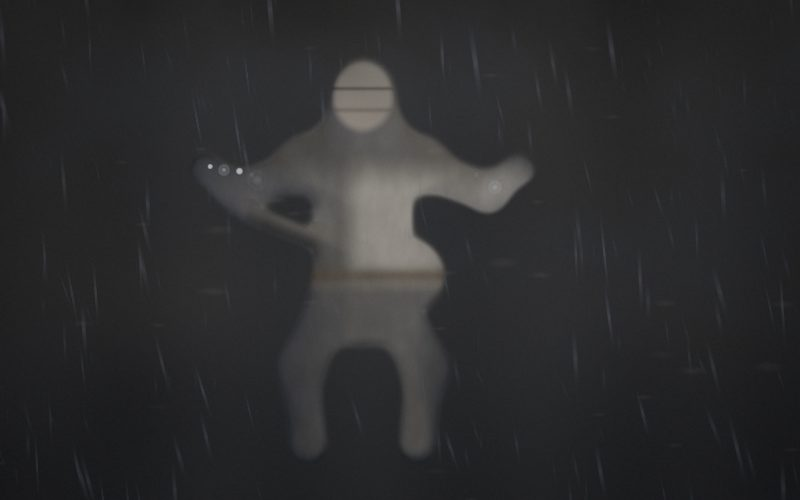
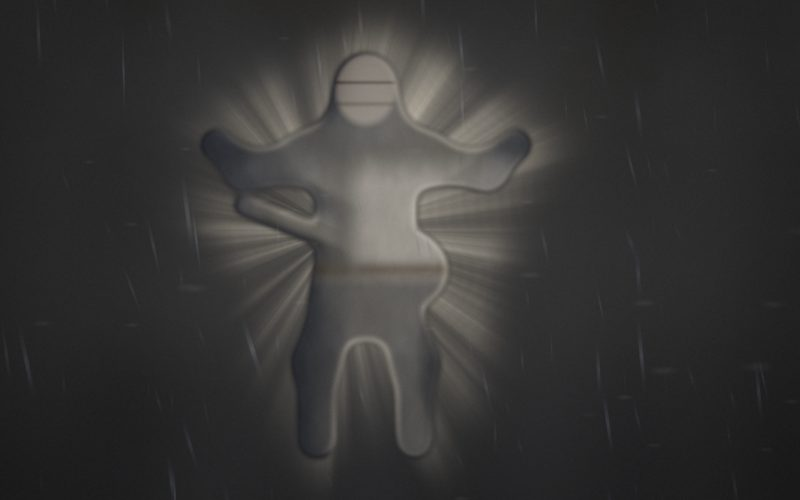
声: 光を後光として放ち、晴れが届くようにする (#113)
「音に応じて光を発する・雨が止む、があまり感じられない。特に光はもっと
神々しく」への対応。雨の表現はそのまま。

天候の弧が遅すぎた:
- shine の充填 12秒 → 6秒、減衰 35秒 → 30秒。12秒では実際に歌っても
  晴れに届かなかった。
- clear の既定 0.75 → 0.92、写像も smoothstep(0.08,0.75) → (0.05,0.55)。
  歌えば雨がはっきり上がる。

光を後光にした(新スライダー「後光」):
- 身体の重心から光芒が放射する。重心は MediaPipe のマスクから求め、
  cover-fit と鏡像を逆変換して画面座標に直す(det.cx/cy は合成モード専用で、
  実カメラでは 0.5 固定だった)。
- 光芒は**光の場を直接**マーチして描く。最初はブルームを引き伸ばしていたが、
  それだと「声の光」スライダーを下げた瞬間に光芒ごと消えた — 光芒が自分の
  ものになっていなかった。
- 縞は重心まわりの一つの角度で切る。局所勾配の角度で切った版は輪郭に沿った
  水紋のようになり、後光に見えなかった。
- 輪郭が縁から燃える(rim blaze)。人物が居ないときは出さない。
- 一度やり過ぎて人物が完全に白飛びしたので、身体内部の発光は抑え、光芒は
  マスクの広域ぼかしで身体まわりに限定した(初版は画面の四隅まで洗っていた)。

検証: static 0 error(gtag除く)/ order 0 error / runtime 11/11 pass
(--motion --longrun)。実機は未検証。

Claude-Session: https://claude.ai/code/session_0193D14d1SybLDp5E6kaLiCx

Changed region(s): [[0.25, 0.03, 0.7188, 0.96], [0.2188, 0.39, 0.4062, 0.72], [0.25, 0.33, 0.3125, 0.36]]

diff --git a/opus5_koe.html b/opus5_koe.html
@@ -27,10 +27,13 @@
        粒が当たった瞬間だけ淡く光り、濡れは重力で流れ落ちて胴へ広がる。
     4. 濡れは実写の上に — 雨に打たれた服と髪は暗く沈み、色が抜ける(肩から)。
        水滴の反射で光らせない。
-    5. 声の光は胸から昇る — 光は空から降らず、歌っている体の奥で湧き、
-       上へ昇って肩と頭に満ちる。**実写の明るさが光を運ぶ**(顔や皺の明るい所が
-       灯り、影は影のまま)ので、体の実際の形に沿って灯る。ブルームで外へ
-       僅かに漏れる=光の庭。一様には光らせない(§A1)。
+    5. 声の光は胸から昇り、後光になる — 光は空から降らず、歌っている体の奥で
+       湧き、上へ昇って肩と頭に満ちる。**実写の明るさが光を運ぶ**(顔や皺の
+       明るい所が灯り、影は影のまま)ので、体の実際の形に沿って灯る。
+       輪郭は縁が燃えるように光り、身体の**重心から光芒が放射する**
+       (光の場を中心へ向かってマーチして外へ塗る。中心はマスクの重心から
+       求め、cover-fit と鏡像を逆変換して画面座標に直す)。=光の庭。
+       一様には光らせない(§A1)。
     6. 確かな誇り — 濡れには下限があり、乾ききらない。届いたものは残る。
        ただし上限で飽和するので、いつまでも溜まり続けはしない。
 
@@ -76,6 +79,7 @@
     雨          歌っていないときに降る雨の量
     晴れ        光が満ちたときに、どれだけ晴れるか
     声の光      声が体に灯す光の強さ
+    後光        体から放たれる光芒の強さ
     真綿        風に漂う綿毛の量
     乾きにくさ  濡れた跡がどれだけ長く残るか
     風          風の強さ(雨の傾きと綿毛の流れ)
@@ -330,8 +334,9 @@
 
         const DEFAULTS = {
           rain: 0.60,
-          clear: 0.75,
-          glowAmt: 0.60,
+          clear: 0.92,
+          glowAmt: 0.62,
+          rays: 0.62,
           floss: 0.55,
           soak: 0.50,
           wind: 0.45,
@@ -352,6 +357,7 @@
           ["rain", "雨", "歌っていないときに降る雨の量", 0, 1, 0.01],
           ["clear", "晴れ", "光が満ちたときに、どれだけ晴れるか", 0, 1, 0.01],
           ["glowAmt", "声の光", "声が体に灯す光の強さ", 0, 1, 0.01],
+          ["rays", "後光", "体から放たれる光芒の強さ", 0, 1, 0.01],
           ["floss", "真綿", "風に漂う綿毛の量", 0, 1, 0.01],
           ["soak", "乾きにくさ", "濡れた跡がどれだけ長く残るか", 0, 1, 0.01],
           ["wind", "風", "風の強さ(雨の傾きと綿毛の流れ)", 0, 1, 0.01],
@@ -367,8 +373,8 @@
           <p>
             歌っていないあいだは、雨が降っています。夜の雨が肩を濡らし、
             濡れた跡は乾ききりません。歌うと、声は体の奥で光になります —
-            <strong>歌い続けるほど光は満ちてゆき、やがて雨が上がって晴れて
-            いきます</strong>。黙れば、また静かな雨が戻ります。真綿のような
+            <strong>歌い続けるほど光は満ちてゆき、輪郭が燃えて後光が
+            差し、やがて雨が上がって晴れていきます</strong>。黙れば、また静かな雨が戻ります。真綿のような
             白い綿毛が風に流れ、雲が暗がりをゆっくり過ぎていきます。
             天気と同じで、ひと声では変わりません。
             映像も音声も、すべて端末内で処理されます。
@@ -1002,7 +1008,7 @@
             glow += uDt * 1.6 * max(below - glow, 0.0) * bodyBelow *
               smoothstep(0.04, 0.30, soft);
             glow -= uDt * glow * 0.30;
-            glow = clamp(glow, 0.0, 1.0);
+            glow = clamp(glow, 0.0, 1.5);
 
             vec2 run = vec2(0.0, -1.0) * wet;
             fragColor = vec4(wet, clamp(floor0, 0.0, 1.0), glow, 1.0);
@@ -1337,7 +1343,7 @@
             vec3 lampCol = vec3(1.00, 0.93, 0.80);
             float g = glow * smoothstep(0.10, 0.70, soft) * carry;
             // rgb above alpha: this is what feeds the bloom
-            fragColor = vec4(lampCol * g * 0.85, clamp(g * 0.24, 0.0, 1.0));
+            fragColor = vec4(lampCol * g * 1.20, clamp(g * 0.26, 0.0, 1.0));
           }
         `;
 
@@ -1352,7 +1358,7 @@
             // only the genuinely emissive parts (stamens, the hottest petal
             // flanks — the ones written above 1.0) are allowed to glow. A low
             // threshold makes every petal halo and the field reads as sparkles.
-            fragColor = vec4(c * smoothstep(0.72, 1.45, l), 1.0);
+            fragColor = vec4(c * smoothstep(0.55, 1.30, l), 1.0);
           }
         `;
 
@@ -1378,7 +1384,10 @@
           uniform float uTime;
           uniform float uExposure;
           uniform float uFilmGrain;
+          uniform sampler2D uWide;
+          uniform vec2 uCenter;
           uniform float uGlowAmt;
+          uniform float uRays;
           uniform float uShine;
           uniform float uPresent;
           uniform vec4 uAudA;   // rms, centroid, steadiness, onset
@@ -1436,18 +1445,66 @@
             float glow = wt.b * uGlowAmt;
             vec3 lampCol = vec3(1.00, 0.94, 0.82);
             float lamp = glow * (0.40 + 0.90 * pow(clamp(rl, 0.0, 1.0), 0.75));
-            col += lampCol * lamp * 0.34 * bodyIn;
+            col += lampCol * lamp * 0.26 * bodyIn;
 
             // ---- the floss layer (premultiplied over)
             col = col * (1.0 - clamp(L.a, 0.0, 1.0)) + L.rgb;
 
             // ---- bloom: the lit body and the rain flares reach it, so the
             // halo around the figure IS the voice — 光の庭
-            vec3 b = texture(uB1, vUv).rgb * 0.42 + texture(uB2, vUv).rgb * 0.62;
-            col += b * 0.85;
-            // the room itself catches a breath of the body's light
+            vec3 b = texture(uB1, vUv).rgb * 0.50 + texture(uB2, vUv).rgb * 0.85;
+            col += b * 0.95;
+
             float shine = clamp(uShine, 0.0, 1.0);
-            col += vec3(0.055, 0.050, 0.040) * shine * (1.0 - smoothstep(0.18, 0.80, soft));
+
+            // ---- 後光. Light shafts streaming out of the body.
+            // No centroid is needed: the gradient of the WIDE mask halo points
+            // at the body from every direction around it, so marching toward it
+            // and smearing the bloom back outward gives rays that leave the
+            // real silhouette — from the shoulders, the head, the arms.
+            float outside = 1.0 - smoothstep(0.10, 0.55, soft);
+            // confined to the halo around the body. Unbounded, the shafts
+            // reached the corners and washed the whole night out.
+            float near = smoothstep(0.010, 0.22, texture(uWide, vUv).r);
+            float rayAmt = uRays * smoothstep(0.04, 0.55, shine) * outside * near *
+              smoothstep(0.15, 0.55, uPresent);
+            if (rayAmt > 0.002) {
+              // Radiating from the body's CENTROID. Striping by the local mask
+              // gradient instead made the shafts follow the contour and read as
+              // watery ripples — a halo has to be indexed by one global angle
+              // or it is not a halo.
+              vec2 d = (vUv - uCenter) * ar;
+              vec2 toBody = -normalize(d + vec2(1e-6));
+              float ang = atan(d.y, d.x);
+              // sharpened: a soft fbm reads as a blur, a peaked one as shafts
+              float sn = fbm(vec2(ang * 6.0, uTime * 0.04));
+              float stri = 0.14 + 2.20 * pow(clamp(sn, 0.0, 1.0), 2.2);
+              // Marched over the LIGHT FIELD itself, not over the bloom
+              // texture: sourcing the shafts from the bloom made them vanish
+              // whenever the bloom or 声の光 was tuned down, so they were never
+              // their own thing. This reads the glow the body actually holds.
+              float shaftE = 0.0;
+              float wsum = 0.0;
+              for (int i = 1; i <= 16; i++) {
+                float t = float(i) / 16.0;
+                vec2 sp = clamp(vUv + toBody * t * 0.24, 0.0, 1.0);
+                float w = 1.0 - t * 0.85;
+                shaftE += texture(uWet, sp).b *
+                  smoothstep(0.25, 0.75, texture(uSoft, sp).r) * w;
+                wsum += w;
+              }
+              shaftE /= max(wsum, 1e-4);
+              col += vec3(1.05, 0.96, 0.80) * shaftE * rayAmt * stri * 2.2;
+            }
+
+            // ---- the rim of the body blazes: the edge is where a lit body
+            // most obviously stops being lit FROM outside and starts being lit
+            // from within
+            float rimBand = smoothstep(0.20, 0.55, soft) * (1.0 - smoothstep(0.55, 0.92, soft));
+            col += vec3(1.00, 0.92, 0.76) * rimBand * wt.b * uGlowAmt * 0.95;
+
+            // the room itself lifts as the weather clears
+            col += vec3(0.075, 0.068, 0.055) * shine * (1.0 - smoothstep(0.18, 0.80, soft));
 
             // ---- 確かな誇り。「今 私の胸のうちに息衝くのは 確かな誇り」
             // The floor of the wetness — the part that will not dry — carries a
@@ -1588,9 +1645,9 @@
           ]),
           bright: getLocations(programs.bright, ["uSrc"]),
           composite: getLocations(programs.composite, [
-            "uScene", "uMask", "uSoft", "uWet", "uLayer", "uB1", "uB2",
+            "uScene", "uMask", "uSoft", "uWide", "uWet", "uLayer", "uB1", "uB2",
             "uResolution", "uAspect", "uTime", "uExposure",
-            "uGlowAmt", "uShine",
+            "uCenter", "uGlowAmt", "uRays", "uShine",
             "uFilmGrain", "uPresent", "uAudA", "uAudB", "uDebug",
           ]),
         };
@@ -1698,6 +1755,8 @@
             maskB: createTarget(fieldW, fieldH, true),
             softT: createTarget(fieldW, fieldH, true),
             softTmp: createTarget(fieldW, fieldH, true),
+            wideT: createTarget(fieldW, fieldH, true),
+            wideTmp: createTarget(fieldW, fieldH, true),
             wetA: createTarget(fieldW, fieldH, true),
             wetB: createTarget(fieldW, fieldH, true),
             layer: createTarget(paintW, paintH, true),
@@ -1719,6 +1778,8 @@
           clearTarget(targets.maskB, 0, 0, 0.5, 0.5);
           clearTarget(targets.softT, 0, 0, 0.5, 0.5);
           clearTarget(targets.softTmp, 0, 0, 0.5, 0.5);
+          clearTarget(targets.wideT, 0, 0, 0.5, 0.5);
+          clearTarget(targets.wideTmp, 0, 0, 0.5, 0.5);
           clearTarget(targets.wetA, 0, 0, 0, 1);
           clearTarget(targets.wetB, 0, 0, 0, 1);
           clearTarget(targets.layer, 0, 0, 0, 0);
@@ -1817,6 +1878,7 @@
         ------------------------------------------------------------------ */
 
         const det = {
+          mx: 0.5, my: 0.5, tmx: 0.5, tmy: 0.5,   // 身体の重心(後光の中心)
           cx: 0.5, cy: 0, present: 0,
           tcx: 0.5, tcy: 0, tpresent: 0,
           swing: 0,
@@ -1925,10 +1987,24 @@
           const f = mask.getAsFloat32Array();
           if (segU8.length !== w * h) segU8 = new Uint8Array(w * h);
           let sum = 0;
-          for (let i = 0; i < w * h; i++) {
-            const v = Math.max(0, Math.min(255, (f[i] * 255) | 0));
-            segU8[i] = v;
-            sum += v;
+          // The centroid of the body, in the same pass that uploads the mask.
+          // The light shafts need a real centre to radiate from; det.cx/cy only
+          // ever tracked the synthetic figure, so on a real camera the rays had
+          // nothing to point at.
+          let mx = 0, my = 0;
+          for (let y = 0; y < h; y++) {
+            for (let x = 0; x < w; x++) {
+              const v = Math.max(0, Math.min(255, (f[y * w + x] * 255) | 0));
+              segU8[y * w + x] = v;
+              sum += v;
+              mx += v * x;
+              my += v * y;
+            }
+          }
+          if (sum > 255 * 32) {
+            // image space is top-left origin; the art clock is y-up
+            det.tmx = (mx / sum) / w;
+            det.tmy = 1 - (my / sum) / h;
           }
           gl.bindTexture(gl.TEXTURE_2D, segTexture);
           gl.pixelStorei(gl.UNPACK_FLIP_Y_WEBGL, false);
@@ -2029,15 +2105,17 @@
         function updateShine(dt) {
           const voiced = smoothstep01(0.03, 0.16, meters.rms);
           const charge = voiced * meters.sus * (0.40 + 0.60 * meters.steady);
-          meters.shine += dt * (charge / 12.0);
-          meters.shine -= dt * (meters.shine / 35.0);
+          // 6s to fill at full voice, 30s to fade. At 12s the arc was so slow
+          // that a real singer never saw the sky clear at all.
+          meters.shine += dt * (charge / 6.0);
+          meters.shine -= dt * (meters.shine / 30.0);
           meters.shine = Math.max(0, Math.min(1, meters.shine));
         }
         // 実効の雨量: 光が増すほど雨は上がっていく(晴れる)。
         // clear スライダーは光と天候の結合の強さ。
         function rainNow() {
           return state.rain *
-            (1 - state.clear * smoothstep01(0.08, 0.75, meters.shine));
+            (1 - state.clear * smoothstep01(0.05, 0.55, meters.shine));
         }
         function smoothstep01(a, b, x) {
           const t = Math.max(0, Math.min(1, (x - a) / Math.max(b - a, 1e-5)));
@@ -2364,6 +2442,9 @@
           }
           if (FAKESEG) det.segScale = [1, 1]; // direct mapping for the Y-flip test
           const k = FREEZE ? 0 : 1 - Math.exp(-dt * 6);
+          if (FAKE) { det.tmx = 0.5 + det.tcx - 0.5; det.tmy = 0.52 + det.tcy; }
+          det.mx += (det.tmx - det.mx) * k;
+          det.my += (det.tmy - det.my) * k;
           det.cx += (det.tcx - det.cx) * k;
           det.cy += (det.tcy - det.cy) * k;
           det.present += (det.tpresent - det.present) * k;
@@ -2453,6 +2534,11 @@
           // from this: the raw confidence mask has block edges and its gradient
           // is noise, so "which way does this surface face" is meaningless on it.
           blurPass(maskOut, targets.softTmp, targets.softT, 3.2, 1);
+          // A WIDE halo of the mask. Its gradient points toward the body from
+          // anywhere around it, which is what lets the light shafts radiate out
+          // of the actual silhouette — shoulders, head, arms — with no need for
+          // a centroid (det.cx/cy only tracks the synthetic figure).
+          blurPass(targets.softT, targets.wideTmp, targets.wideT, 3.2, 9);
 
           // P3 — the wetness field
           renderPass(wetOut, programs.wet, () => {
@@ -2598,6 +2684,7 @@
             bindTexture(4, targets.layer.tex);
             bindTexture(5, targets.b1.tex);
             bindTexture(6, targets.b2.tex);
+            bindTexture(7, targets.wideT.tex);
             gl.uniform1i(u.uScene, 0);
             gl.uniform1i(u.uMask, 1);
             gl.uniform1i(u.uSoft, 2);
@@ -2605,11 +2692,23 @@
             gl.uniform1i(u.uLayer, 4);
             gl.uniform1i(u.uB1, 5);
             gl.uniform1i(u.uB2, 6);
+            gl.uniform1i(u.uWide, 7);
             gl.uniform2f(u.uResolution, canvas.width, canvas.height);
             gl.uniform1f(u.uAspect, aspect);
             gl.uniform1f(u.uTime, animTime);
             gl.uniform1f(u.uExposure, state.exposure);
             gl.uniform1f(u.uGlowAmt, state.glowAmt);
+            // det.mx/my are in the mask's sampling space. The canvas applies
+            // cover-fit (segScale) and the mirror on top of that, so the raw
+            // centroid would sit off the body on any non-matching aspect or
+            // with the mirror on. Invert both here.
+            let ccx = (det.mx - 0.5) / Math.max(det.segScale[0], 1e-4) + 0.5;
+            const ccy = (det.my - 0.5) / Math.max(det.segScale[1], 1e-4) + 0.5;
+            if (state.mirror && !FAKE) ccx = 1 - ccx;
+            gl.uniform2f(u.uCenter,
+              Math.max(-0.5, Math.min(1.5, ccx)),
+              Math.max(-0.5, Math.min(1.5, ccy)));
+            gl.uniform1f(u.uRays, state.rays);
             gl.uniform1f(u.uShine, meters.shine);
             gl.uniform1f(u.uFilmGrain, state.filmGrain);
             gl.uniform1f(u.uPresent, det.present);

diff --git a/prompts/opus5_koe_order.md b/prompts/opus5_koe_order.md
@@ -55,7 +55,7 @@
 
 | # | 視覚的不変量(実装可能な構造の言葉で) | 担当軸 | 実装原理の指定 | 外した場合の影響 |
 |---|---|---|---|---|
-| 1 | 天候の弧: 雨と光は同じ一つの状態量 shine の両端。無音=雨(見える。夜の雨らしい細い斜めの筋、奥行き3層の視差)、歌えば光が満ちて雨が上がる。一音では変わらない | 場/時間 | shine は歌で満ち(≈12秒)、黙ると引く(≈35秒)。雨の発生率 ∝ rain×(1−clear×shine)。※初版の「落下中の雨は不可視」は 2026-07-28 に廃止 — 原則が画面から雨を消した | 雨が見えなければ静けさが画面に存在せず、晴れの意味も消える |
+| 1 | 天候の弧: 雨と光は同じ一つの状態量 shine の両端。無音=雨(見える。夜の雨らしい細い斜めの筋、奥行き3層の視差)、歌えば光が満ちて雨が上がる。一音では変わらない | 場/時間 | shine は歌で満ち(**≈6秒**)、黙ると引く(**≈30秒**)。雨の発生率 ∝ rain×(1−clear×shine)。12秒/35秒では実際に歌っても晴れに届かなかった。※初版の「落下中の雨は不可視」は 2026-07-28 に廃止 — 原則が画面から雨を消した | 雨が見えなければ静けさが画面に存在せず、晴れの意味も消える |
 | 2 | 人物は実写のまま: 夜のグレードの中でマスクが人物だけを淡く持ち上げる。真綿は綿毛として宙を漂い(浮力・風・カールノイズ、落ちない)、雲は fbm の抽象として暗がりを渡り晴れで薄れる | 図地/質感 | 素材置換をしない(2026-07-28 是正: シルエット化と直喩の誤読)。綿毛は小さな GPGPU プール、雲は合成パスの手続き場 | 人物を覆うと切り抜きに戻り、「真綿のように生きて居る」が「布に隠れる」に誤読される |
 | 3 | 濡れは上を向いた面から: 肩と頭頂が先に濡れ、腕の下側は乾いたまま。上に身体がある場所(庇の下)は濡れない | 場 | マスク勾配から法線を作り (normal·up) で重み付け。加えて**上方への短いマーチ**でマスクの遮蔽を見て、庇の下を除外する | どこもかしこも一様に濡れ、「肩にかかる雨」が幾何として存在しない |
 | 4 | 濡れは実写の上に: 雨に打たれた服と髪は暗く沈み、彩度が抜ける(肩から下へ)。水滴の反射で光らせない | 質感 | 濡れ場 R を実写のグレードに掛ける(暗く+無彩へ)。ハイライトを足さない | 濡れが「明るいハイライト」になると water-cam と同じ絵になる |
@@ -100,8 +100,9 @@
 | key | ラベル | 範囲(初期値) | 作用 |
 |---|---|---|---|
 | rain | 雨 | 0–1 (0.60) | 静けさに降る雨の量 |
-| clear | 晴れ | 0–1 (0.75) | 歌の光がどれだけ雨を上がらせるか(天候の結合) |
-| glowAmt | 声の光 | 0–1 (0.60) | 声が身体に灯る光の量 |
+| clear | 晴れ | 0–1 (**0.92**) | 光が満ちたときに、どれだけ晴れるか |
+| glowAmt | 声の光 | 0–1 (0.62) | 声が体に灯す光の強さ |
+| rays | 後光 | 0–1 (0.62) | 体から放たれる光芒の強さ |
 | floss | 真綿 | 0–1 (0.55) | 宙を漂う綿毛の量 |
 | soak | 濡れの残り | 0–1 (0.50) | 濡れが残る強さ(=乾きにくさ) |
 | wind | 風 | 0–1 (0.45) | 風の強さ(雨の傾きと繊維の梳かれ) |
